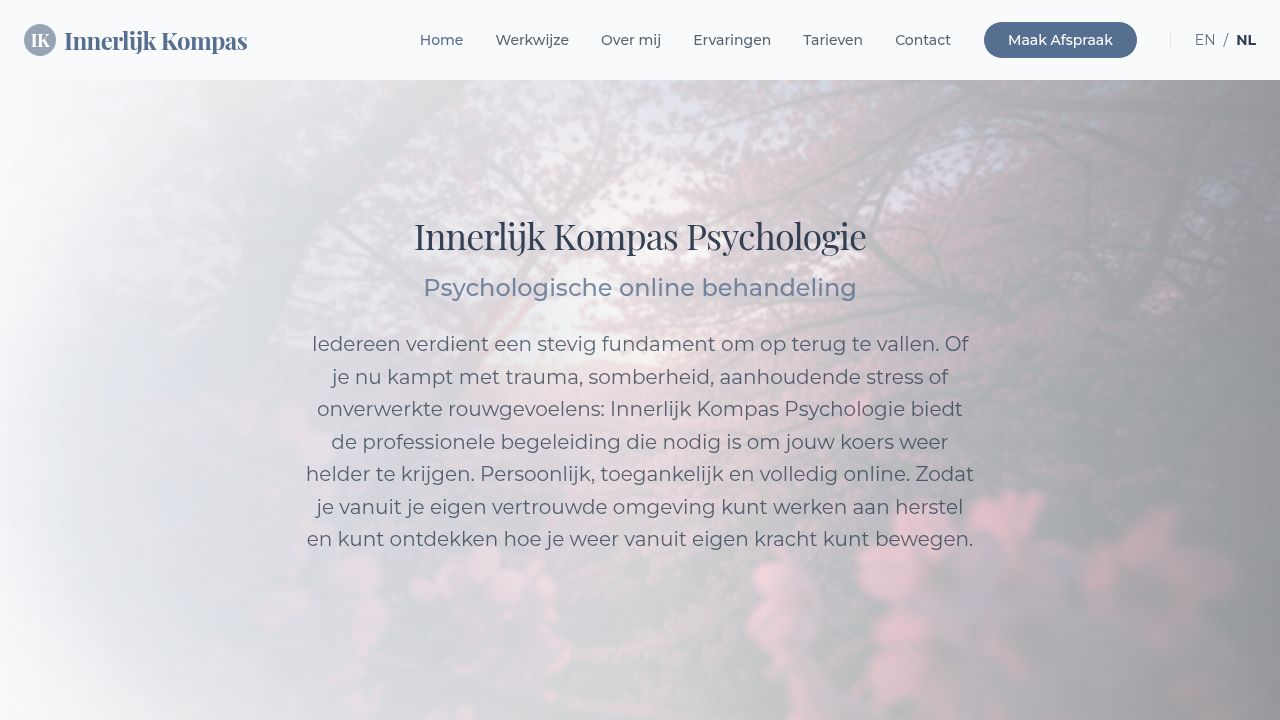
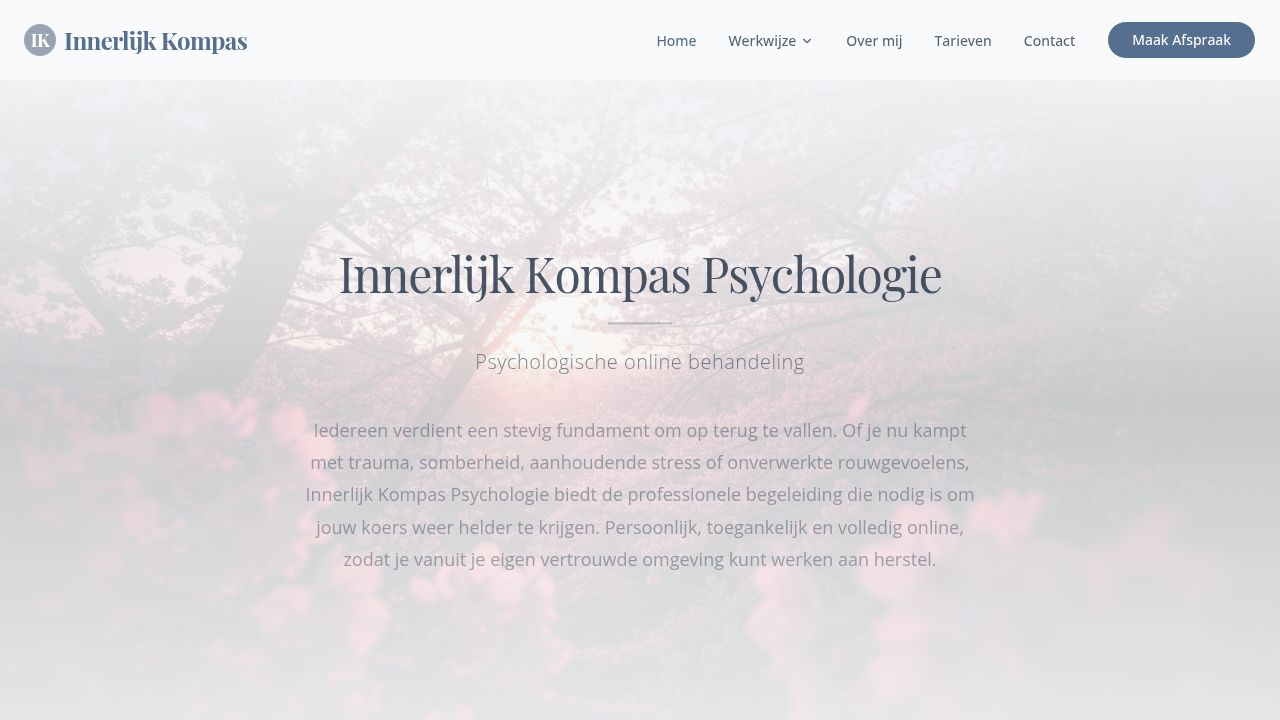
Update website content and styling for a more cohesive user experience
Refactors content on home, about, and methodiek pages, standardizes page title styling, and updates navigation links to consolidate trauma therapy options.

Replit-Commit-Author: Agent
Replit-Commit-Session-Id: 13851280-0e38-4ad3-bd4b-6e867b622850
Replit-Commit-Checkpoint-Type: full_checkpoint
Replit-Commit-Event-Id: 1ea33bcb-b107-4b3d-bde5-81a4894e0648
Replit-Commit-Screenshot-Url: https://storage.googleapis.com/screenshot-production-us-central1/56fe691a-5790-4641-a8d3-dc1aac0e7075/13851280-0e38-4ad3-bd4b-6e867b622850/t1EJNoH
Replit-Helium-Checkpoint-Created: true

diff --git a/client/src/pages/home.tsx b/client/src/pages/home.tsx
@@ -1,5 +1,5 @@
 import { motion } from "framer-motion";
-import { Clock, Globe, CheckCircle2, Star, Quote } from "lucide-react";
+import { Clock, Globe, CheckCircle2 } from "lucide-react";
 import cherryBlossomImg from "@/assets/images/cherry-blossom-dark.png";
 
 export default function Home() {
@@ -38,7 +38,7 @@ export default function Home() {
               transition={{ duration: 0.8, delay: 0.4, ease: "easeOut" }}
             >
               <p className="text-base md:text-lg text-foreground/75 leading-[1.8] max-w-2xl mx-auto">
-                Iedereen verdient een stevig fundament om op terug te vallen. Of je nu kampt met trauma, somberheid, aanhoudende stress of onverwerkte rouwgevoelens — Innerlijk Kompas Psychologie biedt de professionele begeleiding die nodig is om jouw koers weer helder te krijgen. Persoonlijk, toegankelijk en volledig online, zodat je vanuit je eigen vertrouwde omgeving kunt werken aan herstel.
+                Iedereen verdient een stevig fundament om op terug te vallen. Of je nu kampt met trauma, somberheid, aanhoudende stress of onverwerkte rouwgevoelens, Innerlijk Kompas Psychologie biedt de professionele begeleiding die nodig is om jouw koers weer helder te krijgen. Persoonlijk, toegankelijk en volledig online, zodat je vanuit je eigen vertrouwde omgeving kunt werken aan herstel.
               </p>
             </motion.div>
           </div>
@@ -105,55 +105,17 @@ export default function Home() {
               <h2 className="text-3xl font-serif text-foreground mb-3">Online therapie</h2>
               <p className="text-sm uppercase tracking-widest text-primary/60 mb-8">Flexibel · Veilig · Persoonlijk</p>
               <p className="text-base text-foreground/75 leading-[1.85] mb-5">
-                Als online psycholoog bied ik hoogwaardige zorg, zonder dat je de deur uit hoeft. Of je nu in Nederland woont of als expat in het buitenland verblijft — je krijgt vertrouwde hulp in je eigen taal.
+                Als online psycholoog bied ik hoogwaardige zorg, zonder dat je de deur uit hoeft. Of je nu in Nederland woont of als expat in het buitenland verblijft, je krijgt vertrouwde hulp in je eigen taal.
               </p>
               <p className="text-base text-foreground/75 leading-[1.85]">
                 Bij Innerlijk Kompas combineer ik wetenschappelijke methoden met de toegankelijkheid van online zorg. Geen reistijd, geen wachtlijsten, wel de diepgang die jij nodig hebt via een veilige, privacybeschermde video-verbinding.
               </p>
+              <div className="mt-10 p-6 bg-secondary/5 rounded-2xl border border-border/30">
+                <p className="italic text-foreground/80 leading-relaxed">
+                  "Online therapie biedt de flexibiliteit die moderne professionals nodig hebben, zonder in te leveren op de kwaliteit van de verbinding of de effectiviteit van de behandeling."
+                </p>
+              </div>
             </motion.div>
-          </div>
-        </div>
-      </section>
-
-      {/* Ervaringen Section */}
-      <section className="py-20 bg-secondary/5">
-        <div className="container mx-auto px-6">
-          <motion.div
-            initial={{ opacity: 0, y: 20 }}
-            whileInView={{ opacity: 1, y: 0 }}
-            viewport={{ once: true }}
-            className="max-w-3xl mx-auto text-center mb-12"
-          >
-            <h2 className="text-3xl md:text-4xl font-serif text-foreground mb-4 italic">Ervaringen</h2>
-            <p className="text-lg text-muted-foreground leading-relaxed">
-              Wat anderen zeggen over hun traject bij Innerlijk Kompas.
-            </p>
-          </motion.div>
-          <div className="grid grid-cols-1 md:grid-cols-3 gap-8 max-w-5xl mx-auto">
-            {[
-              { name: "Anoniem", text: "Sarah heeft me enorm geholpen bij mijn burn-out. Haar aanpak is warm en professioneel.", rating: 5 },
-              { name: "M. van Dijk", text: "De online EMDR sessies waren een doorbraak voor mijn traumaverwerking. Heel dankbaar.", rating: 5 },
-              { name: "Expats in NL", text: "Fijn om in mijn eigen taal over complexe gevoelens te kunnen praten. Een aanrader voor iedere expat.", rating: 5 },
-            ].map((r, i) => (
-              <motion.div
-                key={i}
-                initial={{ opacity: 0, scale: 0.95 }}
-                whileInView={{ opacity: 1, scale: 1 }}
-                viewport={{ once: true }}
-                transition={{ delay: i * 0.1 }}
-                className="p-8 rounded-2xl border bg-white relative"
-                data-testid={`card-review-${i}`}
-              >
-                <Quote className="absolute top-6 right-8 text-primary/10" size={40} />
-                <div className="flex gap-1 mb-4">
-                  {[...Array(r.rating)].map((_, j) => (
-                    <Star key={j} size={14} className="fill-primary text-primary" />
-                  ))}
-                </div>
-                <p className="text-base italic mb-4 text-foreground/80 leading-relaxed">"{r.text}"</p>
-                <p className="font-bold text-sm text-foreground">— {r.name}</p>
-              </motion.div>
-            ))}
           </div>
         </div>
       </section>

diff --git a/client/src/components/layout/navbar.tsx b/client/src/components/layout/navbar.tsx
@@ -10,10 +10,7 @@ const behandelmethodieken = [
   { slug: "oplossingsgerichte", label: "Oplossingsgerichte therapie" },
   { slug: "inzichtgevende", label: "Inzichtgevende therapie" },
   { slug: "sft", label: "SFT" },
-  { slug: "emdr", label: "EMDR" },
-  { slug: "ie", label: "Imaginaire Exposure" },
-  { slug: "ir", label: "Imaginaire Rescripting" },
-  { slug: "net", label: "Narratieve Exposure Therapie" },
+  { slug: "traumabehandeling", label: "Specialistische traumabehandeling" },
 ];
 
 export default function Navbar() {
@@ -75,7 +72,7 @@ export default function Navbar() {
                 <div className="absolute top-full left-0 pt-2 opacity-0 invisible group-hover:opacity-100 group-hover:visible transition-all duration-200">
                   <div className="bg-white rounded-xl shadow-lg border border-border/50 py-2 min-w-[240px]">
                     {behandelmethodieken.map((m) => (
-                      <Link key={m.slug} href={`/werkwijze/${m.slug}`}>
+                      <Link key={m.slug} href={m.slug === "traumabehandeling" ? "/werkwijze#traumabehandeling" : `/werkwijze/${m.slug}`}>
                         <span className="block px-4 py-2 text-sm text-foreground/80 hover:text-primary hover:bg-secondary/10 transition-colors cursor-pointer" data-testid={`dropdown-${m.slug}`}>
                           {m.label}
                         </span>
@@ -152,7 +149,7 @@ export default function Navbar() {
                           className="pl-4 overflow-hidden"
                         >
                           {behandelmethodieken.map((m) => (
-                            <Link key={m.slug} href={`/werkwijze/${m.slug}`}>
+                            <Link key={m.slug} href={m.slug === "traumabehandeling" ? "/werkwijze#traumabehandeling" : `/werkwijze/${m.slug}`}>
                               <span
                                 onClick={() => setIsMobileMenuOpen(false)}
                                 className="block py-1.5 text-sm text-foreground/70 hover:text-primary cursor-pointer"

diff --git a/client/src/pages/tarieven.tsx b/client/src/pages/tarieven.tsx
@@ -6,7 +6,7 @@ export default function Tarieven() {
     <div className="pt-24 pb-20 min-h-screen bg-background text-foreground">
       <div className="container mx-auto px-6">
         <motion.div initial={{ opacity: 0, y: 20 }} animate={{ opacity: 1, y: 0 }} className="max-w-3xl mx-auto text-center mb-16">
-          <h1 className="text-4xl md:text-5xl font-serif mb-6 italic" data-testid="text-page-title">Kosten & Vergoeding</h1>
+          <h1 className="text-3xl md:text-4xl font-serif text-foreground mb-6" data-testid="text-page-title">Kosten & Vergoeding</h1>
           <p className="text-xl text-muted-foreground leading-relaxed mb-8">
             Ik ben aangesloten bij <strong>Fundament Partners GGZ</strong> en <strong>Psyvisie</strong>. Behandelingen worden vergoed door je verzekeraar.
           </p>

diff --git a/client/src/pages/services.tsx b/client/src/pages/services.tsx
@@ -50,10 +50,7 @@ export default function Services() {
             transition={{ duration: 0.8, ease: "easeOut" }}
             className="max-w-3xl"
           >
-            <h1 className="text-5xl md:text-6xl font-serif text-foreground mb-6 leading-tight">Mijn Werkwijze</h1>
-            <p className="text-xl text-foreground/80 leading-relaxed">
-              Ik bied evidence-based behandelingen in een warme omgeving. Samen kijken we welke methode het beste bij jou en jouw hulpvraag past.
-            </p>
+            <h1 className="text-3xl md:text-4xl font-serif text-foreground mb-6">Mijn Werkwijze</h1>
           </motion.div>
         </div>
       </section>

diff --git a/client/src/pages/contact.tsx b/client/src/pages/contact.tsx
@@ -66,7 +66,7 @@ export default function Contact() {
               animate={{ opacity: 1, y: 0 }}
               transition={{ duration: 0.6 }}
             >
-              <h1 className="text-5xl font-serif text-foreground mb-6">Contact</h1>
+              <h1 className="text-3xl md:text-4xl font-serif text-foreground mb-6">Contact</h1>
               <p className="text-xl text-muted-foreground leading-relaxed">
                 Zet de eerste stap. Neem contact op voor een intake of stel jouw vragen. Ik help je graag verder.
               </p>

diff --git a/client/src/pages/about.tsx b/client/src/pages/about.tsx
@@ -48,9 +48,6 @@ export default function About() {
 
               <p className="mt-6 text-sm text-muted-foreground">KVK nummer: 99588390</p>
 
-              <div className="mt-12 p-6 glass-card rounded-2xl border-primary/10">
-                <p className="italic text-foreground/80">"Online therapie biedt de flexibiliteit die moderne professionals nodig hebben, zonder in te leveren op de kwaliteit van de verbinding of de effectiviteit van de behandeling."</p>
-              </div>
             </motion.div>
           </div>
         </div>

diff --git a/client/src/pages/methodiek.tsx b/client/src/pages/methodiek.tsx
@@ -111,7 +111,7 @@ export default function Methodiek() {
                 <ArrowLeft size={16} /> Terug naar Werkwijze
               </span>
             </Link>
-            <h1 className="text-4xl md:text-5xl font-serif text-foreground leading-tight" data-testid="text-methodiek-title">{data.title}</h1>
+            <h1 className="text-3xl md:text-4xl font-serif text-foreground" data-testid="text-methodiek-title">{data.title}</h1>
           </motion.div>
         </div>
       </section>
